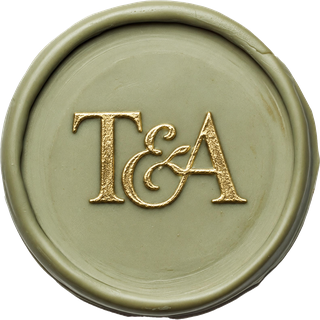
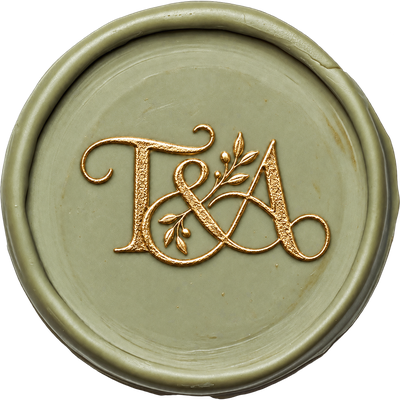
Swap in new seal photo, switch envelope/seal shadow back to live CSS
New wax seal photo (fancier T&A monogram with olive-branch flourish),
resized from the 3.1MB/1254px source down to 400px/245KB.

Replaced the baked-shadow images with a live filter:drop-shadow again,
now done correctly: the clipping bug that motivated baking in the first
place wasn't actually about live-vs-baked, it was that the envelope/seal
PNGs fit their own canvas edge-to-edge with ~0 margin, leaving the filter
nowhere to spread. Fixed by making each element's CSS box larger than its
photo (negative inset) and shrinking the photo back down within it
(background-size < 100%), leaving transparent margin for the shadow to
bleed into — no separate baked image or build step needed. Removed the
now-unused envelope-closed/open-shadowed.png, seal-shadowed.png, and
tools/bake_shadows.py.

diff --git a/index.html b/index.html
@@ -384,26 +384,30 @@
      Both PNGs are pre-aligned (see tools/) so the envelope body sits at the
      same spot in both — only the flap area visibly changes during the fade.
 
-     The drop-shadow is baked directly into these images (envelope-closed/
-     open-shadowed.png, generated by tools/bake_shadows.py) rather than a
-     live CSS filter:drop-shadow: the envelope PNG fits its box edge-to-edge
-     with ~0 margin, so a live drop-shadow's blur+offset had nowhere to
-     spread and got clipped into a flat rectangular "border" (same fix as
-     the villa-sketch duotone, see CLAUDE.md's Design section). */
+     Live CSS filter:drop-shadow, on a box deliberately made larger than
+     the envelope photo itself (inset negative, background-size <100%) so
+     the photo has transparent margin to bleed the shadow into. The
+     envelope PNG fits ITS OWN canvas edge-to-edge with ~0 margin — a
+     drop-shadow applied to a box that size has nowhere to spread and gets
+     clipped into a flat rectangular "border". Padding the box (not the
+     image) sidesteps that without needing to pre-bake the shadow into a
+     separate image (compare the fix for the villa-sketch duotone, which
+     — unlike this — can't be done live, see CLAUDE.md's Design section). */
   .envelope-photo{
     position:absolute;
-    inset:-14.1509% -17.1429%; /* padding baked into the shadowed PNGs (120px on a 700x848 source), expressed as %/box */
-    background-size:contain;
+    inset:-14.1509% -17.1429%; /* box padding: 120px on a 700x848 source, expressed as %/box */
+    background-size:74.468% 77.941%; /* shrinks the photo back down to fill only the un-padded center of the box (700/940, 848/1088) */
     background-position:center;
     background-repeat:no-repeat;
     transition:opacity 1.4s ease; /* flap opens (crossfade), slowed */
+    filter:drop-shadow(0 4px 10px rgba(15,17,8,0.75)) drop-shadow(0 22px 30px rgba(30,40,25,0.4));
   }
   .envelope-photo-closed{
-    background-image:url('images/envelope-closed-shadowed.png');
+    background-image:url('images/envelope-closed.png');
     z-index:2;
   }
   .envelope-photo-open{
-    background-image:url('images/envelope-open-shadowed.png');
+    background-image:url('images/envelope-open.png');
     z-index:1;
     opacity:0;
   }
@@ -414,17 +418,23 @@
     opacity:1;
   }
 
+  /* Same box-padding trick as .envelope-photo above: seal.png's wax circle
+     touches its own canvas edge with ~0 margin, so the box here is 20%
+     larger (60px) than the seal's tuned 50px display size, with
+     background-size shrinking it back down to that 50px, leaving room
+     for the drop-shadow to bleed into. */
   .envelope-seal{
     position:absolute;
     top:75%; left:50%; /* flap's actual fold tip, measured off envelope-closed.png, nudged up slightly */
     transform:translate(-50%,-50%);
-    width:62.5px; height:62.5px; /* 50px seal * 1.25 (40px padding on a 320px source) — shadow baked into seal-shadowed.png, see envelope-photo comment above */
+    width:60px; height:60px;
     z-index:3;
-    background-image:url('images/seal-shadowed.png');
-    background-size:contain;
+    background-image:url('images/seal.png');
+    background-size:83.333%; /* shrinks back down to the tuned 50px (400/480) */
     background-repeat:no-repeat;
     background-position:center;
     transition:opacity 0.6s ease, transform 0.6s ease; /* seal fades */
+    filter:drop-shadow(0 6px 10px rgba(60,45,15,0.45));
   }
   .envelope-cover.opened .envelope-seal{
     opacity:0;

diff --git a/CLAUDE.md b/CLAUDE.md
@@ -17,37 +17,26 @@ offset as when this was written — don't "fix" the offset without checking.
 ## Structure
 
 ```
-index.html                      the whole site (styles + markup + script inline)
+index.html              the whole site (styles + markup + script inline)
 images/
-  vila-watercolour.png          aerial watercolour painting of Vila Vipolže,
-                                used full-bleed behind the closed envelope
-  vila-sketch.jpg               architectural elevation drawing, recolored
-                                as a duotone (paper/ink) to match the
-                                palette; used for the villa band on the
-                                main page
-  envelope-closed.png           real cream envelope photos (AI-generated,
-  envelope-open.png             background already removed), cropped/
-                                scaled/aligned onto a shared canvas so the
-                                envelope's body sits at the same spot in
-                                both — source material, not referenced by
-                                index.html directly, see
-                                tools/prep_envelope_photos.py
-  envelope-closed-shadowed.png  the two above, with a drop-shadow baked in
-  envelope-open-shadowed.png    (padded canvas) — these are what
-                                index.html actually renders, see
-                                tools/bake_shadows.py
-  seal.png                      real photographed wax seal (sage wax, gold
-                                "T&A" monogram) — source material only
-  seal-shadowed.png             seal.png with its drop-shadow baked in —
-                                what index.html actually renders
-tools/                          gitignored — kept locally, not tracked/pushed
-  prep_envelope_photos.py       cuts out + aligns the raw envelope photos
-                                into envelope-closed/open.png, see below
-  bake_shadows.py               generates every *-shadowed.png above from
-                                its plain source, see below
-  build_artifact.py             generates the Claude Artifact build from
-                                index.html
-inspiration/                    reference material (not deployed, gitignored)
+  vila-watercolour.png   aerial watercolour painting of Vila Vipolže, used
+                          full-bleed behind the closed envelope
+  vila-sketch.jpg        architectural elevation drawing, recolored as a
+                          duotone (paper/ink) to match the palette; used
+                          for the villa band on the main page
+  envelope-closed.png    real cream envelope photos (AI-generated,
+  envelope-open.png      background already removed), cropped/scaled/
+                          aligned onto a shared canvas so the envelope's
+                          body sits at the same spot in both — see
+                          tools/prep_envelope_photos.py
+  seal.png               real photographed wax seal (sage wax, gold "T&A"
+                          monogram), resized down from the source photo
+tools/                   gitignored — kept locally, not tracked/pushed
+  prep_envelope_photos.py cuts out + aligns the raw envelope photos into
+                          envelope-closed/open.png, see below
+  build_artifact.py       generates the Claude Artifact build from
+                          index.html
+inspiration/             reference material (not deployed, gitignored)
 ```
 
 `tools/prep_envelope_photos.py` cuts out + aligns a pair of envelope photos
@@ -56,14 +45,21 @@ same body width, and places them on a shared canvas anchored to the same
 bottom-center point, so a closed/open crossfade doesn't jump. Re-run it
 locally whenever the *source* envelope photos change.
 
-`tools/bake_shadows.py` regenerates `envelope-closed/open-shadowed.png` and
-`seal-shadowed.png` from their plain sources — see the script itself for
-why the shadow is baked into a padded image rather than a live CSS
-`filter:drop-shadow`. Re-run it whenever the plain source photos change,
-or when the shadow recipe (offset/blur/color/opacity, at the top of the
-script) changes. If you change its `PAD` values, the CSS in `index.html`
-that depends on them (`.envelope-photo`'s `inset` percentages,
-`.envelope-seal`'s width/height) needs updating too.
+The envelope's and seal's drop-shadows are a **live** CSS
+`filter:drop-shadow`, not baked into the images (an earlier version baked
+them in, and there was a script for it — both are gone now, see the
+`.envelope-photo`/`.envelope-seal` comments in `index.html` for why the
+live version doesn't hit the clipping bug that made baking seem necessary
+in the first place: it wasn't about live-vs-baked, it was that the
+envelope/seal PNGs fit their own canvas edge-to-edge with ~0 margin, and
+the box the filter renders into needs room around the visible content for
+the blur+offset to spread into. Fixed by making the CSS box itself larger
+than the photo (negative `inset`) and shrinking the photo back down within
+it (`background-size` < 100%), leaving transparent margin in the box for
+the filter — no separate baking step needed. If you resize/replace
+`envelope-closed/open.png` or `seal.png` with a source that has a
+meaningfully different content-to-canvas margin, re-check the `inset`/
+`background-size` percentages in `index.html` still leave enough room.
 
 `index.html` is the source of truth. It's a normal standalone document
 (`<!DOCTYPE html>`, `<head>` with viewport meta, `<body>`) because it's
@@ -102,8 +98,8 @@ served as-is by GitHub Pages — it does **not** assume any wrapping skeleton.
 
 - Palette: cream/paper background (`--paper: #f8f3e7`), sage green ink
   (`--ink: #647353`) for all text/borders/outlines, gold reserved for the
-  wax seal (a real photographed seal, `images/seal-shadowed.png` — sage
-  wax with a gold-embossed monogram — not a UI accent).
+  wax seal (a real photographed seal, `images/seal.png` — sage wax with a
+  gold-embossed monogram — not a UI accent).
 - Fonts: Google Fonts — Cormorant Garamond (body), Cormorant SC (small
   caps labels/dates), Pinyon Script (the ornate cursive used for the
   "Save"/"Date" headline and the envelope's sender line — chosen to match
@@ -125,10 +121,10 @@ Sequence, roughly (every transition/animation in `index.html` has a short
 inline comment like `/* flap opens */` or `/* 4: date */` — read those
 before guessing at timings):
 
-1. Page loads on a closed envelope (`envelope-closed-shadowed.png`, see
-   above — plus the wax seal, `seal-shadowed.png`, overlaid on top) sitting
-   over the villa watercolour, full-bleed, with a dark top/bottom veil
-   behind the sender text/hint for legibility. `body.locked` blocks
+1. Page loads on a closed envelope (`envelope-closed.png`, see above —
+   plus the wax seal, `seal.png`, overlaid on top) sitting over the villa
+   watercolour, full-bleed, with a dark top/bottom veil behind the sender
+   text/hint for legibility. `body.locked` blocks
    scrolling.
 2. Click → the closed photo crossfades to the open one in place (~1.4s,
    there's no separate flap layer to rotate — the two photos are pre-aligned
